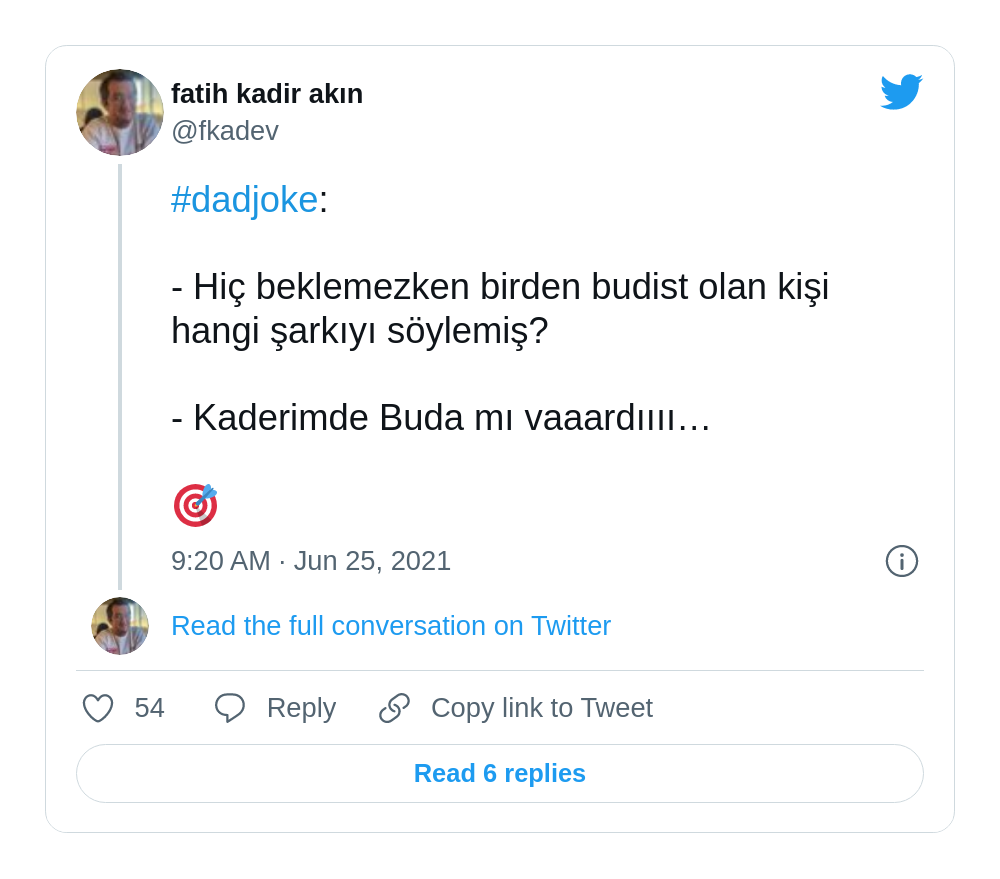
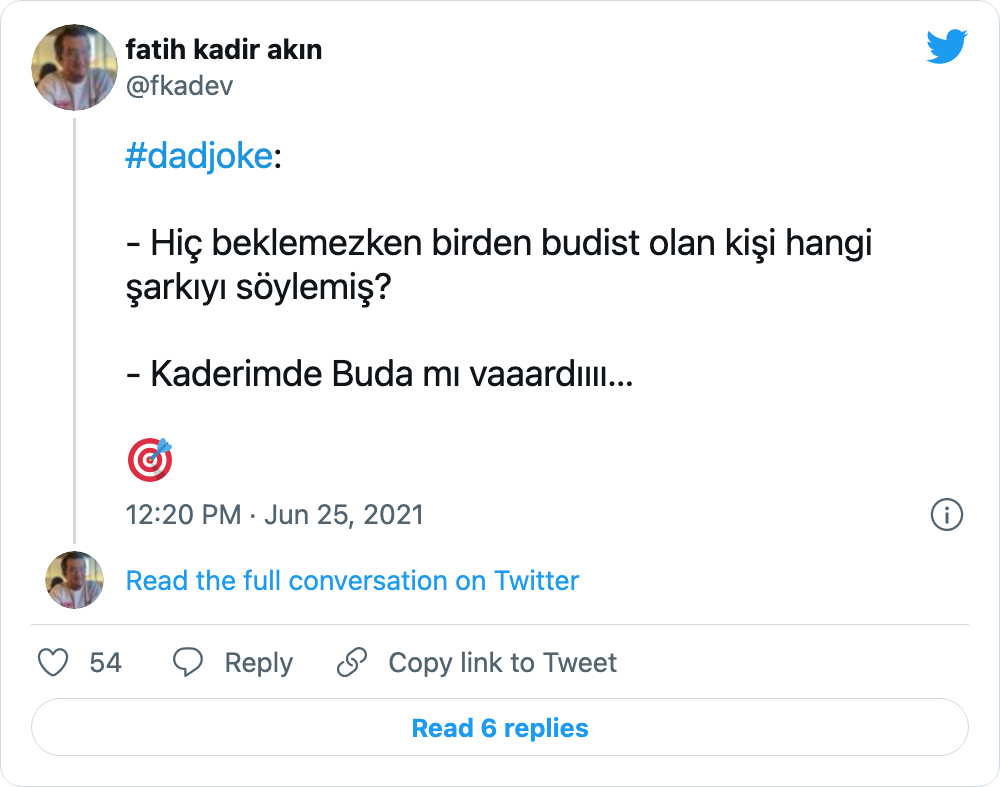
Add

diff --git a/src/App.tsx b/src/App.tsx
@@ -28,8 +28,8 @@ function App() {
           <Menu.Item>Tweet Jokes</Menu.Item>
         </Menu>
       </Header>
-      <Content style={{ padding: "0 50px" }}>
-        <div className="site-layout-content" style={{ margin: "16px 0" }}>
+      <Content>
+        <div className="site-layout-content">
           <Button
             type="primary"
             onClick={handleClick}
@@ -37,6 +37,7 @@ function App() {
           >
             Rasgele
           </Button>
+          <br />
           <br />
           {tweetId && (
             <Image

diff --git a/scripts/screenshotGenerator.ts b/scripts/screenshotGenerator.ts
@@ -8,7 +8,7 @@ let config = {
   lang: "tr-TR",
   width: 1000,
   theme: "light",
-  padding: 25,
+  padding: 0,
   hideCard: false,
   hideThread: false,
 };

diff --git a/src/App.css b/src/App.css
@@ -1,6 +1,6 @@
 .site-layout-content {
   min-height: 280px;
-  padding: 24px;
+  padding: 5px;
   background: #fff;
 }
 #components-layout-demo-top .logo {
